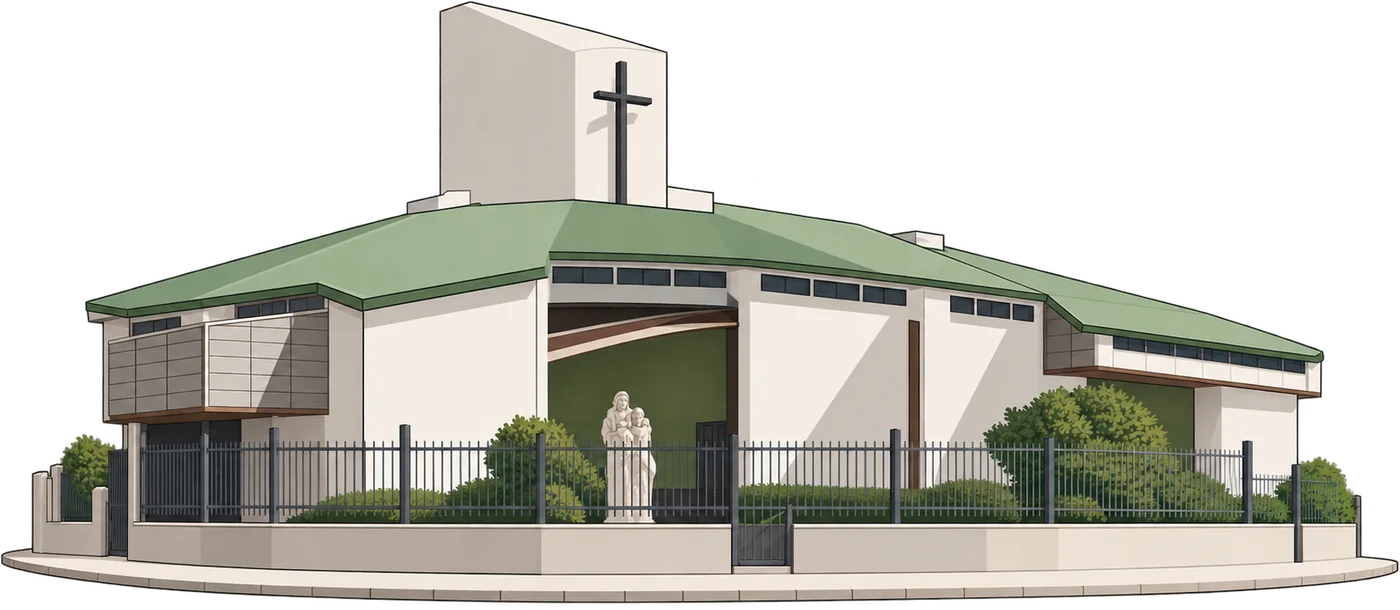
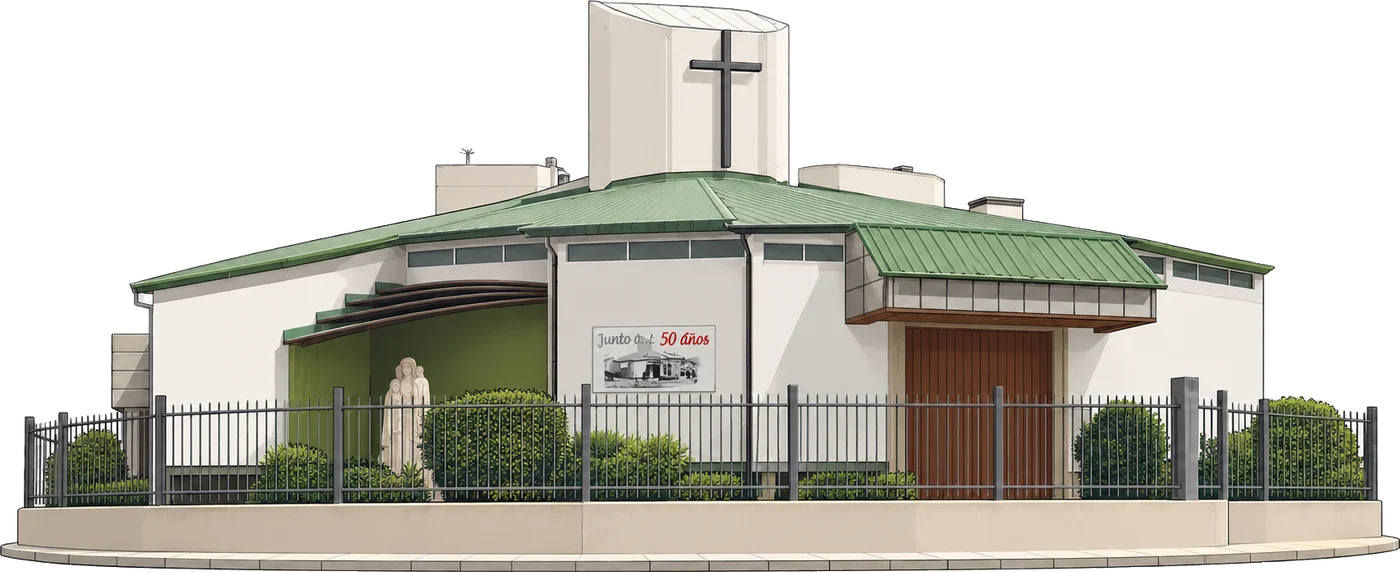
Parroquia: ilustración nueva del templo, que se enciende al bajar
La ilustración nueva traía el fondo de cuadros pintado: se quita desde los
bordes (todo gris claro neutro unido a ellos) y se recorta al edificio,
sin cortar la torre ni la verja.

Al abrir la página se ve apagada y va cogiendo brillo y color al bajar,
hasta verse entera; el filete de oro del suelo se tiende a la vez.

diff --git a/desamparados-web/src/components/bloques/BloqueDibujo.tsx b/desamparados-web/src/components/bloques/BloqueDibujo.tsx
@@ -18,7 +18,7 @@ import type { BloqueDibujo as Datos, NombreDeDibujo } from '../../lib/api/conten
  * ya dibujado.
  *
  * Con ilustración (`foto`), se pinta ella en lugar del dibujo de líneas: se
- * levanta desde el suelo al bajar, sobre un filete de oro que se tiende debajo.
+ * enciende al bajar, sobre un filete de oro que se tiende debajo.
  *
  * Pinta su propio título (ver `pintaSuTitulo` en `registro.tsx`): va en la
  * columna del texto y no encima de los dos.
@@ -46,7 +46,7 @@ export default function BloqueDibujo({ bloque }: { bloque: Datos }) {
     }}>
       <Box ref={marco} sx={{ gridArea: 'dibujo', color: 'secondary.main', maxWidth: foto ? 'none' : { xs: 320, md: 440 }, width: '100%', mx: 'auto' }}>
         {foto
-          ? <Ilustracion url={foto.url} alt={foto.alt} avance={scrollYProgress} quieto={quieto} />
+          ? <Ilustracion url={foto.url} alt={foto.alt} quieto={quieto} />
           : <Dibujo avance={scrollYProgress} quieto={quieto} />}
       </Box>
       <Box sx={{ gridArea: 'texto', minWidth: 0 }}>
@@ -70,18 +70,26 @@ export default function BloqueDibujo({ bloque }: { bloque: Datos }) {
 }
 
 /**
- * La ilustración que sustituye al dibujo: se descubre de abajo arriba, como
- * un edificio que se levanta, y sube un poco mientras tanto.
+ * La ilustración que sustituye al dibujo: al abrir la página se ve apagada,
+ * como de noche, y según se baja va cogiendo brillo y color hasta verse
+ * entera, mientras se tiende debajo el filete de oro del suelo.
+ *
+ * Lleva su propio seguimiento del scroll, más temprano que el del dibujo: la
+ * del templo está arriba de la página y ya se ve al entrar, así que el camino
+ * va de donde está al abrir (su centro hacia el 70 % de la pantalla) a cuando
+ * ya se ha subido a mirarla (su centro en el 25 %).
  */
-function Ilustracion({ url, alt, avance, quieto }: PropsDibujo & { url: string; alt: string }) {
-  const tapado = useTransform(avance, [0.05, 0.75], [100, 0], { clamp: true })
-  const recorte = useMotionTemplate`inset(${tapado}% -2% 0 -2%)`
-  const subida = useTransform(avance, [0.05, 0.75], [28, 0], { clamp: true })
-  const suelo = useTransform(avance, [0, 0.45], [0, 1], { clamp: true })
+function Ilustracion({ url, alt, quieto }: { url: string; alt: string; quieto: boolean }) {
+  const marco = useRef<HTMLDivElement>(null)
+  const { scrollYProgress: avance } = useScroll({ target: marco, offset: ['center 70%', 'center 25%'] })
+  const brillo = useTransform(avance, [0, 1], [0.35, 1])
+  const color = useTransform(avance, [0, 1], [0.45, 1])
+  const filtro = useMotionTemplate`brightness(${brillo}) saturate(${color})`
+  const suelo = useTransform(avance, [0, 0.8], [0.15, 1], { clamp: true })
   return (
-    <Box sx={{ position: 'relative', pb: 2 }}>
-      <Box component={motion.img} src={url} alt={alt} loading="lazy" decoding="async"
-        style={quieto ? undefined : { clipPath: recorte, y: subida }}
+    <Box ref={marco} sx={{ position: 'relative', pb: 2 }}>
+      <Box component={motion.img} src={url} alt={alt} loading="eager" decoding="async"
+        style={quieto ? undefined : { filter: filtro }}
         sx={{ display: 'block', width: '100%', height: 'auto' }} />
       <Box component={motion.div} aria-hidden style={quieto ? undefined : { scaleX: suelo }}
         sx={{ position: 'absolute', left: '4%', right: '4%', bottom: 0, height: '1px', backgroundColor: 'secondary.main', transformOrigin: 'center' }} />
